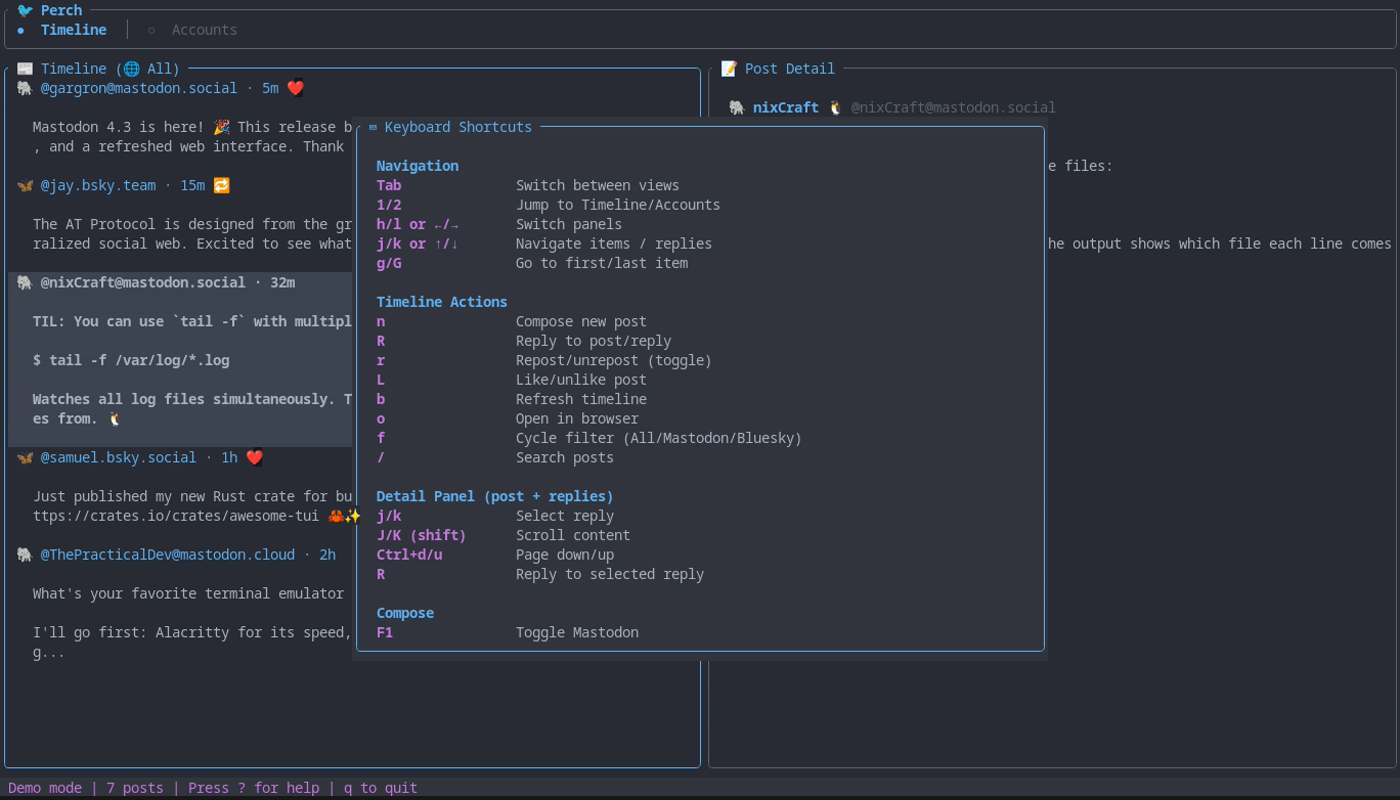
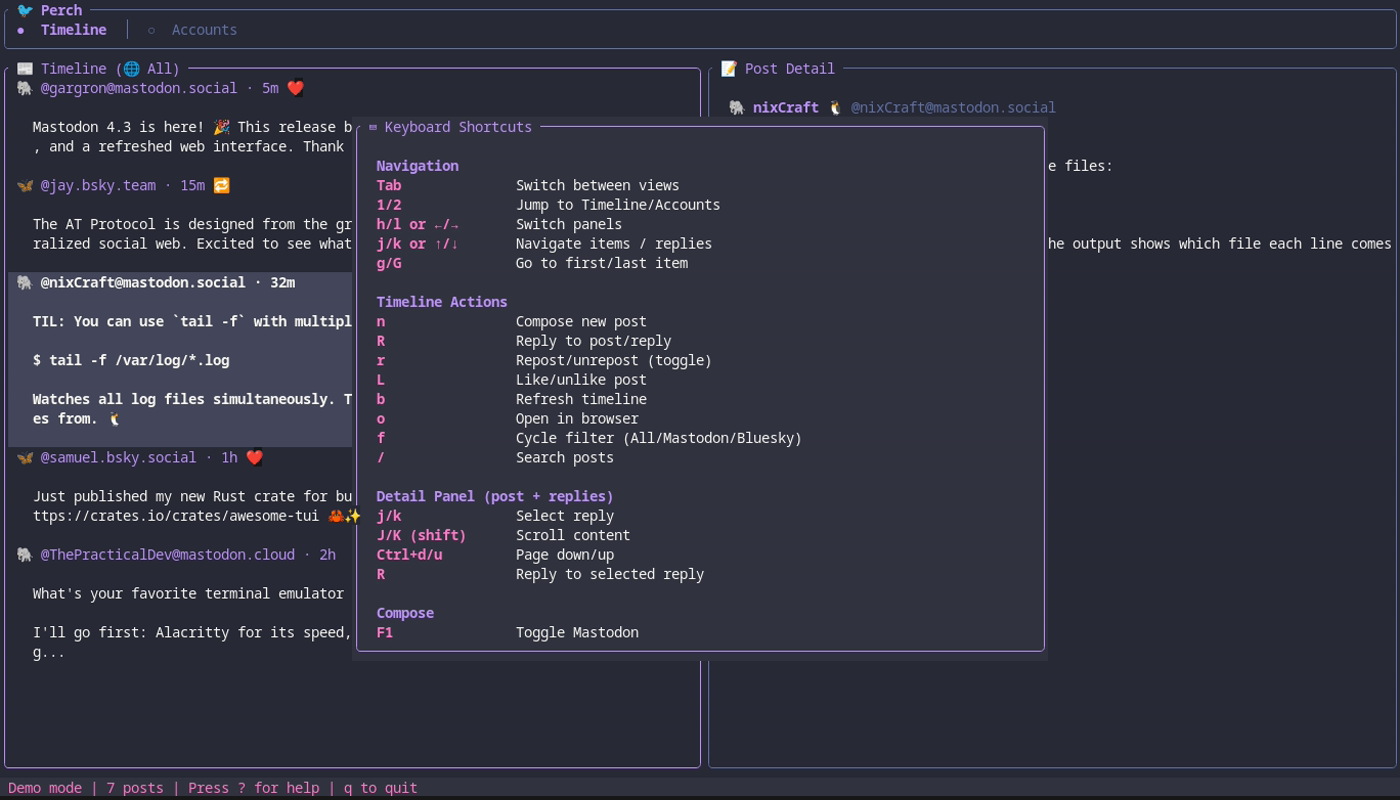
chore: use Dracula theme for screenshots
- Set Dracula theme explicitly in demo mode
- Regenerate all screenshots with proper theming

diff --git a/src/app/mod.rs b/src/app/mod.rs
@@ -267,6 +267,8 @@ pub fn run_demo() -> Result<()> {
     state.accounts = demo::demo_accounts();
     state.posts = demo::demo_posts();
     state.focused_panel = state::FocusedPanel::Timeline;
+    // Use Dracula theme for screenshots
+    state.theme = crate::theme::Theme(ratatui_themes::ThemeName::Dracula);
     state.set_status(format!(
         "Demo mode | {} posts | Press ? for help | q to quit",
         state.posts.len()
